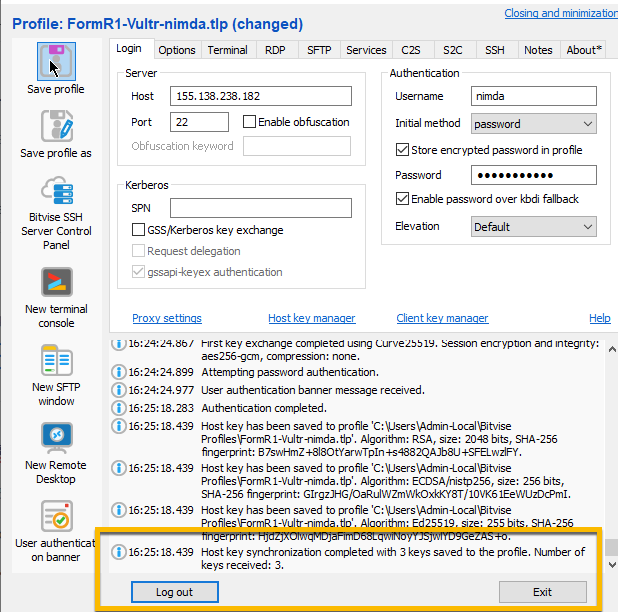
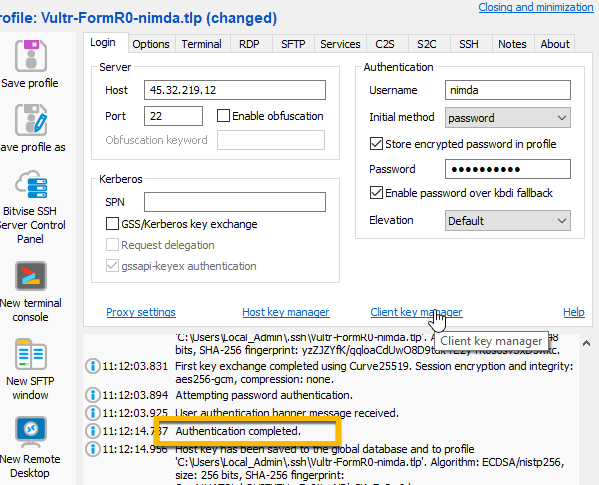
Update SSL

diff --git a/Setup/fr0306_Setup-Website-SSL-Ubuntu.md b/Setup/fr0306_Setup-Website-SSL-Ubuntu.md
@@ -22,7 +22,7 @@
 - This documentation was produced during 2021. You will experience differences in some of the pictures due to the changes made over time by the developers of the softwares and web sites that are used.
 
 ----
-### 1. Use Bitvise securely. Open Bitvise on your local workstation and login as nimda to the Ubuntu server
+### 1. Use Bitvise securely. Open Bitvise on your local workstation and login as nimda to the Ubuntu server (<5 mins)
 ----
 1. Open Bitvise Client app 
 
@@ -32,7 +32,7 @@
  
 ![BitVise New Profile](./images/fr0306-01_Ubuntu-Bitvise-New-Profile.png "BitVise New Profile")
 
-3. Enter new profile name: 
+3. Navigate to the Local_Admin\.shh folder and enter new profile name: 
 
 ```
 Vultr-FormR0-nimda
@@ -49,49 +49,59 @@ Vultr-FormR0-nimda
 
  ![BitVise IP](./images/fr0306-01_Ubuntu-Bitvise-IP.png "BitVise IP")
 
-
----- @@@@@ Need new pictures from here down for Vultr-FormR00 NOT FormR0-Vultr
-----
-
 5. then enter:
 
 ```
   Port: 22
   Username: nimda
   Initial Method: password
+  Check the box: "Store encrypted password in profile
   Password: FormR!1234
 ```
 
-```
 #### !! Remember to write your passwords in a safe place !!
-```
+
 ![BitVise Initial Login](./images/fr0306-02_Ubuntu-Bitvise-Initial-Login.png "BitVise Initial Login")
   
-6. Click log In (You will see Warning message and then be logged in via password)
+6. Click log In (You will see Host Key, Warning message and then be logged in via password)
+
+- Host key - Click Accept and Save (This will only happen on the first logon.)
+
+![BitVise Click Login Host Key](./images/fr0306-03_Ubuntu-Bitvise-Click-Login-Host-Key.png "BitVise Click Login Host Key")
+
+- Warning Banner - Click the X to close it
 
 ![BitVise Click Login](./images/fr0306-03_Ubuntu-Bitvise-Click-Login.png "BitVise Click Login")
+
+- Authenticated Completion 
 
 ![BitVise Click Login2](./images/fr0306-03_Ubuntu-Bitvise-Click-Login2.png "BitVise Click Login2")
 
 
-7. Click Save profile icon as Vultr-FormR00-nimda
+7. Click Save profile icon
 
 ![BitVise Save Profile](./images/fr0306-04_Ubuntu-Bitvise-Save-Profile.png "BitVise Save Profile")
 
+- Select - Any account on this computer - and click OK
+
 ![BitVise Save Profile2](./images/fr0306-04_Ubuntu-Bitvise-Save-Profile2.png "BitVise Save Profile2")
 
+8, Close Bitvise
+
 ----
-### 2. Configure Login via Public Key (SSH keys are more secure than passwords)
+### 2. Configure Login via Public Key (SSH keys are more secure than passwords) (<15 mins)
 ----
-1. Open Bitvise profile, FormR-Vultr-nimda, click Log in, then click New SFTP window icon
+1. Open Bitvise, the profile, Vultr-FormR0-nimda, should load. 
+- Click Log in, then 
+- Click New SFTP window icon
 
 ![BitVise New SFTP window](./images/fr0306-05_Ubuntu-Bitvise-New-SFTP-window.png "BitVise New SFTP window")
 
 ![BitVise New SFTP window2](./images/fr0306-05_Ubuntu-Bitvise-New-SFTP-window2.png "BitVise New SFTP window2")
 
-2. Right click in remote files pane (right)
+2. Click in remote files pane (right) and enter: /root
 
-3. create folder: /root/.ssh
+3. Right in blank space and click Create Folder, then enter: .ssh
 
 ![BitVise Create SSH Folder](./images/fr0306-05_Ubuntu-Bitvise-Create-SSH-Folder.png "BitVise Create SSH Folder")
 
@@ -104,8 +114,7 @@ Vultr-FormR0-nimda
 ![BitVise Create File authorized_keys2](./images/fr0306-05_Ubuntu-Bitvise-Create-File-authorized_keys2.png "BitVise Create File authorized_keys2") 
 
 5. In local files panes (left)
-6. Navigate to C:/users/Local_Admin/.ssh and edit the public key (.pub) file for FormR_Vultr_nimda
-
+6. Navigate to C:/users/Local_Admin/.ssh and edit the public key (.pub) file for Vultr_FormR0_nimda
 7. Right click and select Edit
 
     (Note you may need to expand the name column to see the .pub extension)
@@ -162,11 +171,12 @@ Vultr-FormR0-nimda
 ![BitVise Select Client Key](./images/fr0306-05_Ubuntu-Bitvise-Select-Client-Key.png "BitVise Select Client Key")
 
 #### IMPORTANT -- Click Save Profile !!!
+</br>
 
 ![BitVise Save Profile](./images/fr0306-05_Ubuntu-Bitvise-Save-Profile.png "BitVise Save Profile")
 
 ----
-### 3. Using Bitvise New Terminal console delete nginx default files 
+### 3. Using Bitvise New Terminal console delete nginx default files (<5 mins)
 ----
 1. Open New Terminal console
 
@@ -181,10 +191,14 @@ unlink /etc/nginx/sites-enabled/default
 ![BitVise Unlink nginx default](./images/fr0306-06_Ubuntu-Bitvise-Unlink-nginx-default.png "BitVise Unlink nginx default")
 
 ----
-### 4. Clone simpleApp using git 
+### 4. Using Bitvise New Terminal console Clone simpleApp using git (<5 mins)
 ----
+
+
 ```
-cd /webs https://github.com/8020Data/simpleApp.git simpleApp
+cd /webs 
+
+git clone https://github.com/8020Data/simpleApp.git simpleApp
 ```
 1. Confim clone
 ```
@@ -198,8 +212,11 @@ ufw allow 5000
 
 ![BitVise Clone simpleApp](./images/fr0306-07_Ubuntu-Bitvise-Clone-simpleApp.png "BitVise Clone simpleApp")
 
-3. Start app.js on the server
+3. Install and start app.js on the server
+
 ```
+npm install
+
 node app.js
 ```
 
@@ -381,7 +398,7 @@ e.g http://formr-cbt-00.com
 ### 9. Modify simpleApp.conf to use your new URL
 ----
 1. Open Bitvise 
-2. Load Profile: Vultr-FormR00-nimda.tlp
+2. Load Profile: Vultr-FormR0-nimda.tlp
 3. Login
 4. From your Bitvise SFTP window navigate to 
 

diff --git a/Setup/fr0301_Setup-Vultr-Ubuntu.md b/Setup/fr0301_Setup-Vultr-Ubuntu.md
@@ -60,7 +60,7 @@
 
 ![Vultr-add-SSH-key-pasted](./images/fr0301-06_Vultr-add-SSH-key-pasted.png "Vultr-add-SSH-key-pasted")
 
-8. Server Host Name and Label: Vultr-FormR00 for both
+8. Server Host Name and Label: Vultr-FormR0 for both
 
 ![Vultr-Host-Label](./images/fr0301-07_Vultr-Host-Label.png "Vultr-Host-Label")
 
@@ -76,7 +76,7 @@
 ----
 ### 2. Open Vultr VM Console to Log in (<10 mins)
 ----
-1. Click on Products, then the Server Name i.e. Vultr-FormR00
+1. Click on Products, then the Server Name i.e. Vultr-FormR0
 
 ![Vultr Open Console](./images/fr0301-09_Vultr-Open-Console.png "Open Console")
 
@@ -102,7 +102,7 @@
 
 6. You will see the Welcome screen for Ubuntu and the command prompt:
 
-    root@Vultr-FormR00:~#
+    root@Vultr-FormR0:~#
 
 ![Vultr Welcome](./images/fr0301-13_Vultr-Welcome.png "Welcome")
 

diff --git a/Setup/fr0101_Setup-Developer-Workstation.md b/Setup/fr0101_Setup-Developer-Workstation.md
@@ -196,9 +196,9 @@ ssh-keygen -t rsa -f "c:/Users/Local_Admin/.ssh/mickey.mouse@Vultr_mick_v210713_
 10. Key pairs for access to Remote Server on Cloud Provider:
 
 ```
-Change "Vultr-FormR00_nimda" below to your VM Instance name and login
+Change "Vultr-FormR0_nimda" below to your VM Instance name and login
 
-ssh-keygen -t rsa -f "c:/Users/Local_Admin/.ssh/mickey.mouse@Vultr-FormR00_nimda_v210713_key" -C "mickey.mouse@Vultr-FormR00_nimda_v210713"
+ssh-keygen -t rsa -f "c:/Users/Local_Admin/.ssh/mickey.mouse@Vultr-FormR0_nimda_v210713_key" -C "mickey.mouse@Vultr-FormR0_nimda_v210713"
 ```
 
 ![Create New ssh key3](./images/fr0101-03_Create-New-ssh-key3.png "Create New ssh key3")
